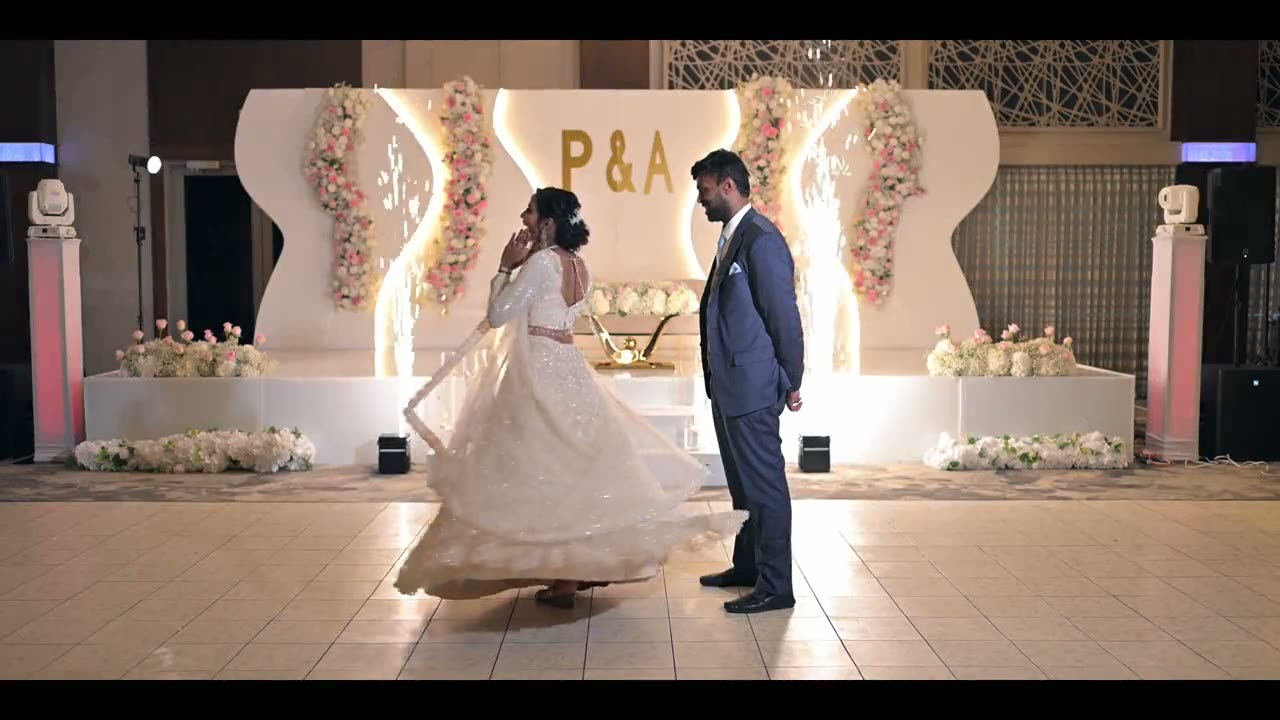
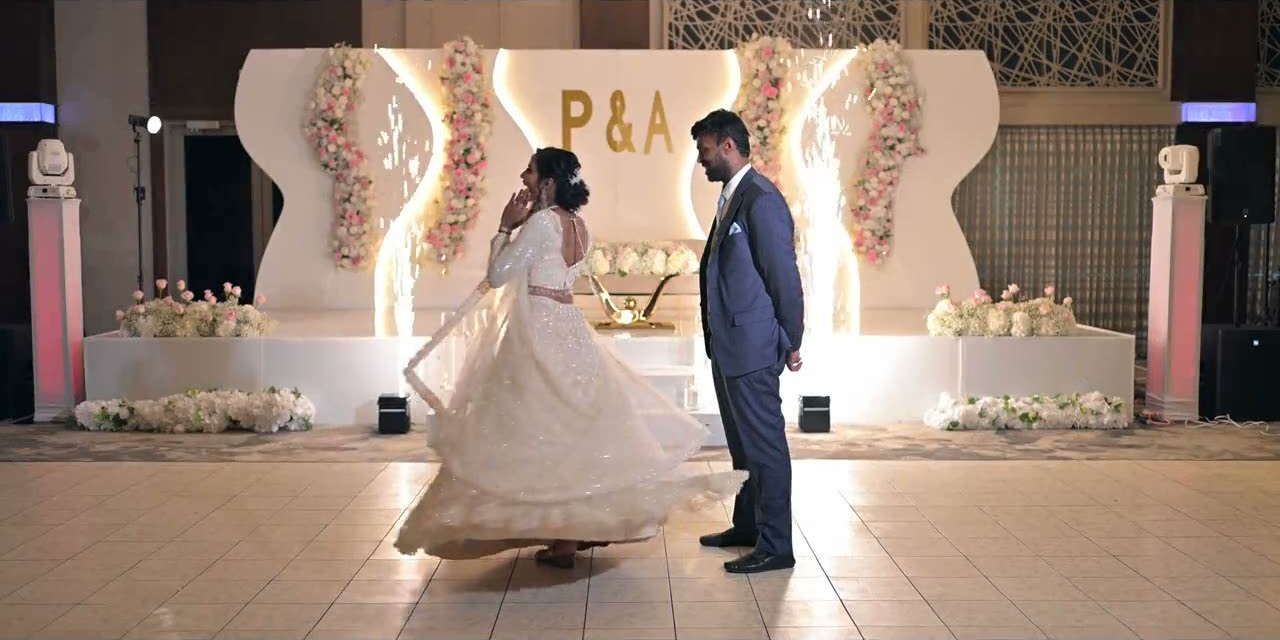
Make In Motion videos compact tiles with a pop-up player
Four-across tiles (two on smaller screens) with the event and title over
the cover, a dark pop-up player with sound, and Show all once there are
more than eight videos. Crop letterbox bars off three covers.

Also stop the photo viewer code from crashing the script on the quote
and privacy pages, which had kept the footer year and phone call bar
from working there.

diff --git a/gallery.html b/gallery.html
@@ -264,64 +264,36 @@
         </div>
         <div class="v-grid">
           <article class="v-card reveal">
-            <div class="v-media">
-              <video src="videos/reception.mp4" poster="videos/webp/reception-poster-1280.webp" preload="none" playsinline controls hidden></video>
-              <button type="button" class="v-play" aria-label="Play highlight: A glowing reception">
-                <img src="videos/reception-poster.jpg" alt="" loading="lazy" width="1280" height="720" srcset="videos/webp/reception-poster-480.webp 480w, videos/webp/reception-poster-960.webp 960w, videos/webp/reception-poster-1280.webp 1280w" sizes="(max-width: 640px) 100vw, 50vw" data-full="videos/webp/reception-poster-1280.webp">
-                <span class="v-play-icon"><svg viewBox="0 0 24 24" aria-hidden="true"><path d="M8 5.5v13l10.5-6.5z"/></svg></span>
-                <span class="v-length">0:24</span>
-              </button>
-            </div>
-            <div class="v-text">
-              <p class="v-event">Reception</p>
-              <h4>A glowing reception</h4>
-              <p>The stage reveal, a twirl beneath the arches and a packed dance floor.</p>
-            </div>
+            <button type="button" class="v-play" data-video="videos/reception.mp4" data-poster="videos/webp/reception-poster-1280.webp" data-desc="The stage reveal, a twirl beneath the arches and a packed dance floor." aria-label="Play highlight: A glowing reception">
+              <img src="videos/reception-poster.jpg" alt="" loading="lazy" width="1280" height="640" srcset="videos/webp/reception-poster-480.webp 480w, videos/webp/reception-poster-960.webp 960w, videos/webp/reception-poster-1280.webp 1280w" sizes="(max-width: 860px) 50vw, 25vw" data-full="videos/webp/reception-poster-1280.webp">
+              <span class="v-length">0:24</span>
+              <span class="v-play-icon" aria-hidden="true"><svg viewBox="0 0 24 24"><path d="M8 5.5v13l10.5-6.5z"/></svg></span>
+              <span class="v-info"><span class="v-event">Reception</span><span class="v-title">A glowing reception</span></span>
+            </button>
           </article>
           <article class="v-card reveal">
-            <div class="v-media">
-              <video src="videos/housewarming.mp4" poster="videos/webp/housewarming-poster-1280.webp" preload="none" playsinline controls hidden></video>
-              <button type="button" class="v-play" aria-label="Play highlight: A housewarming to remember">
-                <img src="videos/housewarming-poster.jpg" alt="" loading="lazy" width="1280" height="720" srcset="videos/webp/housewarming-poster-480.webp 480w, videos/webp/housewarming-poster-960.webp 960w, videos/webp/housewarming-poster-1280.webp 1280w" sizes="(max-width: 640px) 100vw, 50vw" data-full="videos/webp/housewarming-poster-1280.webp">
-                <span class="v-play-icon"><svg viewBox="0 0 24 24" aria-hidden="true"><path d="M8 5.5v13l10.5-6.5z"/></svg></span>
-                <span class="v-length">0:24</span>
-              </button>
-            </div>
-            <div class="v-text">
-              <p class="v-event">Housewarming</p>
-              <h4>A housewarming to remember</h4>
-              <p>Floral entrances, a grand staircase and a garden dinner under the stars.</p>
-            </div>
+            <button type="button" class="v-play" data-video="videos/housewarming.mp4" data-poster="videos/webp/housewarming-poster-1280.webp" data-desc="Floral entrances, a grand staircase and a garden dinner under the stars." aria-label="Play highlight: A housewarming to remember">
+              <img src="videos/housewarming-poster.jpg" alt="" loading="lazy" width="1280" height="640" srcset="videos/webp/housewarming-poster-480.webp 480w, videos/webp/housewarming-poster-960.webp 960w, videos/webp/housewarming-poster-1280.webp 1280w" sizes="(max-width: 860px) 50vw, 25vw" data-full="videos/webp/housewarming-poster-1280.webp">
+              <span class="v-length">0:24</span>
+              <span class="v-play-icon" aria-hidden="true"><svg viewBox="0 0 24 24"><path d="M8 5.5v13l10.5-6.5z"/></svg></span>
+              <span class="v-info"><span class="v-event">Housewarming</span><span class="v-title">A housewarming to remember</span></span>
+            </button>
           </article>
           <article class="v-card reveal">
-            <div class="v-media">
-              <video src="videos/engagement.mp4" poster="videos/webp/engagement-poster-1280.webp" preload="none" playsinline controls hidden></video>
-              <button type="button" class="v-play" aria-label="Play highlight: An intimate engagement">
-                <img src="videos/engagement-poster.jpg" alt="" loading="lazy" width="1280" height="720" srcset="videos/webp/engagement-poster-480.webp 480w, videos/webp/engagement-poster-960.webp 960w, videos/webp/engagement-poster-1280.webp 1280w" sizes="(max-width: 640px) 100vw, 50vw" data-full="videos/webp/engagement-poster-1280.webp">
-                <span class="v-play-icon"><svg viewBox="0 0 24 24" aria-hidden="true"><path d="M8 5.5v13l10.5-6.5z"/></svg></span>
-                <span class="v-length">0:24</span>
-              </button>
-            </div>
-            <div class="v-text">
-              <p class="v-event">Engagement</p>
-              <h4>An intimate engagement</h4>
-              <p>Rings, roses and a floral stage, from the first look to the last dance.</p>
-            </div>
+            <button type="button" class="v-play" data-video="videos/engagement.mp4" data-poster="videos/webp/engagement-poster-1280.webp" data-desc="Rings, roses and a floral stage, from the first look to the last dance." aria-label="Play highlight: An intimate engagement">
+              <img src="videos/engagement-poster.jpg" alt="" loading="lazy" width="1280" height="640" srcset="videos/webp/engagement-poster-480.webp 480w, videos/webp/engagement-poster-960.webp 960w, videos/webp/engagement-poster-1280.webp 1280w" sizes="(max-width: 860px) 50vw, 25vw" data-full="videos/webp/engagement-poster-1280.webp">
+              <span class="v-length">0:24</span>
+              <span class="v-play-icon" aria-hidden="true"><svg viewBox="0 0 24 24"><path d="M8 5.5v13l10.5-6.5z"/></svg></span>
+              <span class="v-info"><span class="v-event">Engagement</span><span class="v-title">An intimate engagement</span></span>
+            </button>
           </article>
           <article class="v-card reveal">
-            <div class="v-media">
-              <video src="videos/birthday.mp4" poster="videos/webp/birthday-poster-1280.webp" preload="none" playsinline controls hidden></video>
-              <button type="button" class="v-play" aria-label="Play highlight: A 50th birthday bash">
-                <img src="videos/birthday-poster.jpg" alt="" loading="lazy" width="1280" height="720" srcset="videos/webp/birthday-poster-480.webp 480w, videos/webp/birthday-poster-960.webp 960w, videos/webp/birthday-poster-1280.webp 1280w" sizes="(max-width: 640px) 100vw, 50vw" data-full="videos/webp/birthday-poster-1280.webp">
-                <span class="v-play-icon"><svg viewBox="0 0 24 24" aria-hidden="true"><path d="M8 5.5v13l10.5-6.5z"/></svg></span>
-                <span class="v-length">0:24</span>
-              </button>
-            </div>
-            <div class="v-text">
-              <p class="v-event">Birthday</p>
-              <h4>A 50th birthday bash</h4>
-              <p>A floral arch entrance, a sparkler welcome, dance performances and a five-tier cake.</p>
-            </div>
+            <button type="button" class="v-play" data-video="videos/birthday.mp4" data-poster="videos/webp/birthday-poster-1280.webp" data-desc="A floral arch entrance, a sparkler welcome, dance performances and a five-tier cake." aria-label="Play highlight: A 50th birthday bash">
+              <img src="videos/birthday-poster.jpg" alt="" loading="lazy" width="1280" height="720" srcset="videos/webp/birthday-poster-480.webp 480w, videos/webp/birthday-poster-960.webp 960w, videos/webp/birthday-poster-1280.webp 1280w" sizes="(max-width: 860px) 50vw, 25vw" data-full="videos/webp/birthday-poster-1280.webp">
+              <span class="v-length">0:24</span>
+              <span class="v-play-icon" aria-hidden="true"><svg viewBox="0 0 24 24"><path d="M8 5.5v13l10.5-6.5z"/></svg></span>
+              <span class="v-info"><span class="v-event">Birthday</span><span class="v-title">A 50th birthday bash</span></span>
+            </button>
           </article>
         </div>
       </div>
@@ -403,6 +375,13 @@
     <a href="quote.html" class="mobile-cta-quote">Get a Quote <svg viewBox="0 0 24 24" aria-hidden="true"><path d="M5 12h13M13 6l6 6-6 6"/></svg></a>
   </div>
 
+  <div class="v-modal" role="dialog" aria-modal="true" aria-label="Video player" hidden>
+    <button class="v-modal-close" aria-label="Close video">&times;</button>
+    <figure>
+      <video controls playsinline preload="none"></video>
+      <figcaption><span class="v-modal-event"></span><span class="v-modal-title"></span><span class="v-modal-desc"></span></figcaption>
+    </figure>
+  </div>
   <div class="lightbox" role="dialog" aria-modal="true" aria-label="Photo viewer">
     <button class="lightbox-close" aria-label="Close">&times;</button>
     <button class="lightbox-nav lightbox-prev" aria-label="Previous photo"><svg viewBox="0 0 24 24" aria-hidden="true"><path d="M15 5l-7 7 7 7"/></svg></button>

diff --git a/styles.css b/styles.css
@@ -794,31 +794,51 @@ a.contact-card:hover .ci-value { color: var(--gold-text); }
 .v-head { text-align: center; margin: 5rem auto 2.2rem; max-width: 640px; }
 .v-head .eyebrow { justify-content: center; }
 .v-head h3 { font-size: clamp(1.8rem, 3vw, 2.4rem); }
-.v-grid { display: grid; grid-template-columns: repeat(2, 1fr); gap: 1.4rem; }
-.v-card { background: #fff; border: 1px solid var(--line); border-radius: 10px; overflow: hidden; box-shadow: var(--shadow); }
-.v-media { position: relative; aspect-ratio: 16 / 9; background: #121114; }
-.v-media video, .v-play, .v-play img { position: absolute; inset: 0; width: 100%; height: 100%; object-fit: cover; }
-.v-play { border: 0; padding: 0; cursor: pointer; background: #121114; }
-.v-play img { transition: transform .9s var(--ease), filter .5s; filter: brightness(.82); }
-.v-play:hover img { transform: scale(1.05); filter: brightness(.95); }
-.v-play-icon {
-  position: absolute; left: 50%; top: 50%; transform: translate(-50%, -50%);
-  width: 58px; height: 58px; border-radius: 50%; display: grid; place-items: center;
-  background: rgba(255, 255, 255, .92); color: var(--ink); transition: background .3s, transform .3s var(--ease);
+.v-grid { display: grid; grid-template-columns: repeat(4, 1fr); gap: 1rem; }
+.v-card { margin: 0; }
+.v-card.is-extra { display: none; }
+.v-grid.show-all .v-card.is-extra { display: block; }
+.v-play {
+  position: relative; display: block; width: 100%; aspect-ratio: 16 / 10; padding: 0; border: 0; cursor: pointer;
+  border-radius: 10px; overflow: hidden; background: #121114; text-align: left; color: #fff;
+  box-shadow: 0 14px 30px -20px rgba(31, 29, 34, .55); transition: transform .5s var(--ease), box-shadow .5s;
 }
-.v-play-icon svg { width: 22px; height: 22px; fill: currentColor; margin-left: 3px; }
-.v-play:hover .v-play-icon { background: #d4b062; transform: translate(-50%, -50%) scale(1.06); }
-.v-length { position: absolute; right: .7rem; bottom: .7rem; padding: .15rem .5rem; border-radius: 4px; background: rgba(12, 11, 14, .7); color: #fff; font-family: var(--sans); font-weight: 500; font-size: .7rem; letter-spacing: .05em; }
-.v-text { padding: 1.2rem 1.3rem 1.4rem; }
-.v-event { font-size: .66rem; font-weight: 600; letter-spacing: .2em; text-transform: uppercase; color: var(--label); margin-bottom: .4rem; }
-.v-text h4 { font-family: var(--serif); font-size: 1.35rem; font-weight: 500; margin-bottom: .35rem; }
-.v-text p:last-child { font-size: .88rem; color: var(--muted); line-height: 1.6; }
+.v-play img { position: absolute; inset: 0; width: 100%; height: 100%; object-fit: cover; transition: transform 1s var(--ease); }
+.v-play::after { content: ""; position: absolute; inset: 0; background: linear-gradient(180deg, rgba(12, 11, 14, 0) 40%, rgba(12, 11, 14, .82)); }
+.v-play:hover { transform: translateY(-4px); box-shadow: 0 22px 40px -22px rgba(31, 29, 34, .6); }
+.v-play:hover img { transform: scale(1.06); }
+.v-play:focus-visible { outline: 2px solid var(--gold); outline-offset: 3px; }
+.v-play-icon {
+  position: absolute; left: 50%; top: 42%; z-index: 1; transform: translate(-50%, -50%);
+  width: 46px; height: 46px; border-radius: 50%; display: grid; place-items: center;
+  background: rgba(255, 255, 255, .22); border: 1px solid rgba(255, 255, 255, .6); color: #fff;
+  backdrop-filter: blur(6px); -webkit-backdrop-filter: blur(6px); transition: background .35s, border-color .35s, color .35s, transform .35s var(--ease);
+}
+.v-play-icon svg { width: 18px; height: 18px; fill: currentColor; margin-left: 2px; }
+.v-play:hover .v-play-icon { background: #d4b062; border-color: #d4b062; color: var(--ink); transform: translate(-50%, -50%) scale(1.08); }
+.v-length { position: absolute; right: .55rem; top: .55rem; z-index: 1; padding: .12rem .45rem; border-radius: 999px; background: rgba(12, 11, 14, .55); color: #fff; font-family: var(--sans); font-weight: 500; font-size: .62rem; letter-spacing: .06em; }
+.v-info { position: absolute; left: 0; right: 0; bottom: 0; z-index: 1; padding: .8rem .9rem .85rem; display: grid; gap: .15rem; }
+.v-event { font-family: var(--sans); font-size: .58rem; font-weight: 600; letter-spacing: .22em; text-transform: uppercase; color: #e6cc85; }
+.v-title { font-family: var(--serif); font-size: 1.12rem; font-weight: 500; line-height: 1.2; color: #fff; }
+.v-more { display: flex; justify-content: center; margin-top: 2rem; }
+
+/* Video pop-up player */
+.v-modal { position: fixed; inset: 0; z-index: 110; display: grid; place-items: center; padding: 2rem; background: rgba(12, 11, 14, .92); backdrop-filter: blur(6px); -webkit-backdrop-filter: blur(6px); }
+.v-modal[hidden] { display: none; }
+.v-modal figure { margin: 0; width: min(1000px, 100%); }
+.v-modal video { display: block; width: 100%; max-height: 74vh; aspect-ratio: 16 / 9; background: #000; border-radius: 10px; }
+.v-modal figcaption { display: grid; gap: .25rem; margin-top: 1rem; text-align: center; color: #fff; }
+.v-modal-event { font-family: var(--sans); font-size: .66rem; font-weight: 600; letter-spacing: .22em; text-transform: uppercase; color: #e6cc85; }
+.v-modal-title { font-family: var(--serif); font-size: clamp(1.4rem, 2.6vw, 1.9rem); }
+.v-modal-desc { font-size: .9rem; color: rgba(255, 255, 255, .75); }
+.v-modal-close { position: absolute; top: 1rem; right: 1.4rem; background: none; border: 0; color: #fff; font-family: var(--sans); font-weight: 300; font-size: 2.4rem; line-height: 1; cursor: pointer; }
+.v-modal-close:hover { color: #e6cc85; }
 
 @media (max-width: 1024px) {
   .gallery-grid { grid-template-columns: repeat(3, 1fr); }
-  .v-grid { grid-template-columns: 1fr 1fr; }
 }
 @media (max-width: 860px) {
+  .v-grid { grid-template-columns: 1fr 1fr; }
   .g-feature { grid-template-columns: 1fr; }
   .g-feature-mosaic { height: 340px; }
 }
@@ -828,7 +848,12 @@ a.contact-card:hover .ci-value { color: var(--gold-text); }
   .g-filters { flex-wrap: nowrap; overflow-x: auto; scrollbar-width: none; margin: 0 -1rem; padding: 0 1rem .2rem; width: calc(100% + 2rem); }
   .g-filters::-webkit-scrollbar { display: none; }
   .g-filter { flex-shrink: 0; }
-  .v-grid { grid-template-columns: 1fr; }
+  .v-grid { grid-template-columns: 1fr 1fr; gap: .7rem; }
+  .v-info { padding: .6rem .65rem .65rem; }
+  .v-event { display: none; }
+  .v-title { font-size: .98rem; }
+  .v-play-icon { width: 38px; height: 38px; }
+  .v-modal { padding: 1rem; }
   .g-feature-mosaic { height: 280px; }
 }
 
@@ -900,7 +925,7 @@ a.contact-card:hover .ci-value { color: var(--gold-text); }
 .site-footer .logo-top::before, .site-footer .logo-top::after { background: #a8d8f0; }
 .section + .section { border-top: 0; }
 .contact, .g-feature, .full-service { --gold-text: #7f5f17; }
-.step-num, .hero-stats strong { font-variant-numeric: lining-nums; }
+.step-num, .hero-stats strong, .v-title, .v-modal-title { font-variant-numeric: lining-nums; }
 
 /* ---------- Footer: warm charcoal with links and contact ---------- */
 .site-footer {

diff --git a/script.js b/script.js
@@ -278,56 +278,88 @@ if (filterBtns.length) filterGallery('all');
 
 // Photo viewer: arrows, keyboard and swipe through the photos currently shown
 const lightbox = document.querySelector('.lightbox');
-const lbImg = lightbox.querySelector('img');
-const lbCap = lightbox.querySelector('p');
-const lbCount = lightbox.querySelector('.lightbox-count');
-let lbList = [];
-let lbIndex = 0;
-const showPhoto = i => {
-  lbIndex = (i + lbList.length) % lbList.length;
-  const item = lbList[lbIndex];
-  const img = item.querySelector('img');
-  lbImg.src = img.dataset.full || img.currentSrc || img.src;   // largest version for the full-screen viewer
-  lbImg.alt = img.alt;
-  lbCap.textContent = item.querySelector('.g-title').textContent;
-  lbCount.textContent = `${lbIndex + 1} / ${lbList.length}`;
-};
-galleryItems.forEach(item =>
-  item.addEventListener('click', () => {
-    lbList = visibleItems();
-    showPhoto(lbList.indexOf(item));
-    lightbox.classList.add('open');
-  })
-);
-const closeLightbox = () => lightbox.classList.remove('open');
-lightbox.querySelector('.lightbox-prev').addEventListener('click', () => showPhoto(lbIndex - 1));
-lightbox.querySelector('.lightbox-next').addEventListener('click', () => showPhoto(lbIndex + 1));
-lightbox.addEventListener('click', e => { if (e.target === lightbox || e.target.classList.contains('lightbox-close')) closeLightbox(); });
-document.addEventListener('keydown', e => {
-  if (!lightbox.classList.contains('open')) return;
-  if (e.key === 'Escape') closeLightbox();
-  if (e.key === 'ArrowLeft') showPhoto(lbIndex - 1);
-  if (e.key === 'ArrowRight') showPhoto(lbIndex + 1);
-});
-let touchX = null;
-lightbox.addEventListener('touchstart', e => { touchX = e.touches[0].clientX; }, { passive: true });
-lightbox.addEventListener('touchend', e => {
-  if (touchX === null) return;
-  const dx = e.changedTouches[0].clientX - touchX;
-  if (Math.abs(dx) > 40) showPhoto(lbIndex + (dx < 0 ? 1 : -1));
-  touchX = null;
-});
+if (lightbox) {
+  const lbImg = lightbox.querySelector('img');
+  const lbCap = lightbox.querySelector('p');
+  const lbCount = lightbox.querySelector('.lightbox-count');
+  let lbList = [];
+  let lbIndex = 0;
+  const showPhoto = i => {
+    lbIndex = (i + lbList.length) % lbList.length;
+    const item = lbList[lbIndex];
+    const img = item.querySelector('img');
+    lbImg.src = img.dataset.full || img.currentSrc || img.src;   // largest version for the full-screen viewer
+    lbImg.alt = img.alt;
+    lbCap.textContent = item.querySelector('.g-title').textContent;
+    lbCount.textContent = `${lbIndex + 1} / ${lbList.length}`;
+  };
+  galleryItems.forEach(item =>
+    item.addEventListener('click', () => {
+      lbList = visibleItems();
+      showPhoto(lbList.indexOf(item));
+      lightbox.classList.add('open');
+    })
+  );
+  const closeLightbox = () => lightbox.classList.remove('open');
+  lightbox.querySelector('.lightbox-prev').addEventListener('click', () => showPhoto(lbIndex - 1));
+  lightbox.querySelector('.lightbox-next').addEventListener('click', () => showPhoto(lbIndex + 1));
+  lightbox.addEventListener('click', e => { if (e.target === lightbox || e.target.classList.contains('lightbox-close')) closeLightbox(); });
+  document.addEventListener('keydown', e => {
+    if (!lightbox.classList.contains('open')) return;
+    if (e.key === 'Escape') closeLightbox();
+    if (e.key === 'ArrowLeft') showPhoto(lbIndex - 1);
+    if (e.key === 'ArrowRight') showPhoto(lbIndex + 1);
+  });
+  let touchX = null;
+  lightbox.addEventListener('touchstart', e => { touchX = e.touches[0].clientX; }, { passive: true });
+  lightbox.addEventListener('touchend', e => {
+    if (touchX === null) return;
+    const dx = e.changedTouches[0].clientX - touchX;
+    if (Math.abs(dx) > 40) showPhoto(lbIndex + (dx < 0 ? 1 : -1));
+    touchX = null;
+  });
+}
 
-// Highlight videos: tap to play with sound; only one plays at a time
-const videos = [...document.querySelectorAll('.v-card video')];
-document.querySelectorAll('.v-play').forEach(btn => btn.addEventListener('click', () => {
-  const video = btn.parentElement.querySelector('video');
-  videos.forEach(v => { if (v !== video) v.pause(); });
-  btn.hidden = true;
-  video.hidden = false;
-  video.play();
-}));
-videos.forEach(v => v.addEventListener('play', () => videos.forEach(o => { if (o !== v) o.pause(); })));
+// Highlight videos: tap a tile to watch it with sound in a pop-up player
+const vModal = document.querySelector('.v-modal');
+if (vModal) {
+  const vPlayer = vModal.querySelector('video');
+  let lastTile = null;
+  const closeVideo = () => {
+    vPlayer.pause();
+    vPlayer.removeAttribute('src');
+    vPlayer.load();
+    vModal.hidden = true;
+    document.body.style.overflow = '';
+    if (lastTile) lastTile.focus();
+  };
+  document.querySelectorAll('.v-play').forEach(btn => btn.addEventListener('click', () => {
+    lastTile = btn;
+    vPlayer.poster = btn.dataset.poster;
+    vPlayer.src = btn.dataset.video;
+    vModal.querySelector('.v-modal-event').textContent = btn.querySelector('.v-event').textContent;
+    vModal.querySelector('.v-modal-title').textContent = btn.querySelector('.v-title').textContent;
+    vModal.querySelector('.v-modal-desc').textContent = btn.dataset.desc;
+    vModal.hidden = false;
+    document.body.style.overflow = 'hidden';
+    vModal.querySelector('.v-modal-close').focus();
+    vPlayer.play().catch(() => {});
+  }));
+  vModal.addEventListener('click', e => { if (e.target === vModal || e.target.classList.contains('v-modal-close')) closeVideo(); });
+  document.addEventListener('keydown', e => { if (e.key === 'Escape' && !vModal.hidden) closeVideo(); });
+}
+
+// Long video lists: show the first 8, with a button for the rest
+const vGrid = document.querySelector('.v-grid');
+const VIDEOS_SHOWN = 8;
+if (vGrid && vGrid.children.length > VIDEOS_SHOWN) {
+  [...vGrid.children].slice(VIDEOS_SHOWN).forEach(card => card.classList.add('is-extra'));
+  const wrap = document.createElement('div');
+  wrap.className = 'v-more';
+  wrap.innerHTML = `<button type="button" class="btn btn-ghost">Show all ${vGrid.children.length} videos</button>`;
+  wrap.querySelector('button').addEventListener('click', () => { vGrid.classList.add('show-all'); wrap.remove(); });
+  vGrid.after(wrap);
+}
 
 // Banner video loop: load and play only when the banner is near the screen,
 // pause when it scrolls away, and skip it for visitors who prefer less motion

diff --git a/tools/optimize-images.py b/tools/optimize-images.py
@@ -52,7 +52,7 @@ def sizes_for(tag, before):
     if 'g-item' in fig:    return '(max-width: 640px) 50vw, (max-width: 1024px) 33vw, 25vw'
     if 'portrait' in fig:  return '(max-width: 560px) 50vw, (max-width: 860px) 260px, 22vw'
     if 'service-img' in before[before.rfind('<div'):]: return '(max-width: 560px) 100vw, (max-width: 1024px) 50vw, 25vw'
-    if 'v-play' in before[before.rfind('<button'):]:      return '(max-width: 640px) 100vw, 50vw'
+    if 'v-play' in before[before.rfind('<button'):]:      return '(max-width: 860px) 50vw, 25vw'
     if before.rfind('g-feature-mosaic') > before.rfind('</div>'): return '(max-width: 860px) 60vw, 30vw'
     return '(max-width: 860px) 100vw, 50vw'
 
